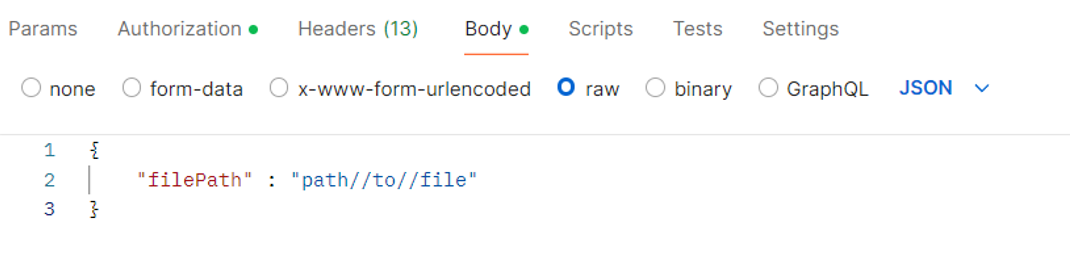
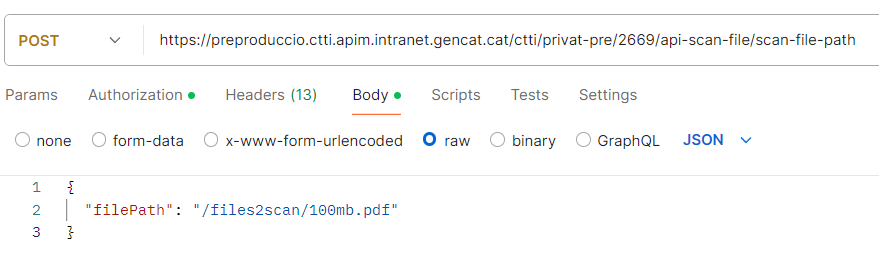
Actualización de la información de la operación scan-file-path

diff --git a/content/drafts/apiantivirus/antivirus.md b/content/drafts/apiantivirus/antivirus.md
@@ -27,13 +27,13 @@ Les aplicacions poden utilitzar un connector Canigo si ha estat desenvolupat sot
 
 ## Modes d'Integració
 
-Actualment existeixen dos modes d'integració, un a través del connector [Canigó](https://canigo.ctti.gencat.cat/plataformes/canigo/documentacio-per-versions/3.8LTS/3.8.0/moduls/moduls-integracio/modul-antivirus/), el qual tendirà a desaparèixer, i un altre mode via API **[API](/drafts/apiantivirus/intro_CAT/)**. Es recomana encaridament l'ús del mode d'integració del API a causa de la seva versatilitat, facilitat d'ús i integració, i fiabilitat..
+Actualment existeixen dos modes d'integració, un a través del connector [Canigó](https://canigo.ctti.gencat.cat/plataformes/canigo/documentacio-per-versions/3.8LTS/3.8.0/moduls/moduls-integracio/modul-antivirus/), el qual tendirà a desaparèixer, i un altre mode via API **[API](/apiantivirus/intro_CAT/)**. Es recomana encaridament l'ús del mode d'integració del API a causa de la seva versatilitat, facilitat d'ús i integració, i fiabilitat..
 
 A continuació, s'indiquen una sèrie d'exemples d'ús i el model d'integració recomanat:
 ## 
 
 | Cas d'ús | Mode d'integració recomanat |  
 |------|-------|
-| Sol·licitud d'escaneig de fitxers amb una grandària inferior a 15MB | **[API](/drafts/apiantivirus/intro_CAT/)** (Escaneig per fitxer adjunt)
-| Sol·licitud d'escaneig de fitxers amb una grandària superior a 15MB | **[API](/drafts/apiantivirus/intro_CAT/)** (Escaneig per URL)
+| Sol·licitud d'escaneig de fitxers amb una grandària inferior a 15MB | **[API](/apiantivirus/intro_CAT/)** (Escaneig per fitxer adjunt)
+| Sol·licitud d'escaneig de fitxers amb una grandària superior a 15MB | **[API](/apiantivirus/intro_CAT/)** (Escaneig per URL)
 | Desenvolupaments que no poden integrar-se via API | **[SDK](https://canigo.ctti.gencat.cat/plataformes/canigo/documentacio-per-versions/3.8LTS/3.8.0/moduls/moduls-integracio/modul-antivirus/)**

diff --git a/content/drafts/apiantivirus/intro_CAT.md b/content/drafts/apiantivirus/intro_CAT.md
@@ -19,7 +19,7 @@ Amb aquest canvi s'ha aconseguit el següent:
 
 ## Descripció
 
-A continuació, es llisten les diferents funcionals que ofereix el API Antivirus, les quals es detallessin més en profunditat en la secció de **[disseny tècnic del API](/drafts/apiantivirus/disenotecnico_CAT/)**.
+A continuació, es llisten les diferents funcionals que ofereix el API Antivirus, les quals es detallessin més en profunditat en la secció de **[disseny tècnic del API](/apiantivirus/disenotecnico_CAT/)**.
 ## 
 - **Obtenir token d'autenticació**: Operació per a sol·licitar un token d'autenticació i de refresh, requerits per a poder fer ús de la funcionalitat d'escaneig del API Antivirus.
 - **Refrescar Token**: Operació que s'usa per a refrescar el període de caducitat del token proporcionant un nou token d'accés, facilitant per a això el token de refresh.
@@ -29,12 +29,12 @@ A continuació, es llisten les diferents funcionals que ofereix el API Antivirus
 ## Documentació
 
 A través del següent enllaç es pot anar a la secció de canigo relacionada amb el disseny tècnic del API Antivirus.
-- **[disseny tècnic del API Antivirus](/drafts/apiantivirus/disenotecnico_CAT/)**.
+- **[disseny tècnic del API Antivirus](/apiantivirus/disenotecnico_CAT/)**.
 
 A través del següent enllaç es pot anar a la secció de canigo relacionada amb els requisits necessaris per a fer ús del API Antivirus.
-- **[Requisits per a fer ús del API Antivirus](/drafts/apiantivirus/requisitosdeuso_CAT/)**.
+- **[Requisits per a fer ús del API Antivirus](/apiantivirus/requisitosdeuso_CAT/)**.
 
 A través del següent enllaç es pot anar a la secció de canigo relacionada amb el manual d'ús del API Antivirus.
-- **[Manual d'ús del API Antivirus](/drafts/apiantivirus/manualdeuso_CAT/)**.
+- **[Manual d'ús del API Antivirus](/apiantivirus/manualdeuso_CAT/)**.
 
 

diff --git a/content/drafts/apiantivirus/disenotecnico_CAT.md b/content/drafts/apiantivirus/disenotecnico_CAT.md
@@ -158,6 +158,21 @@ A continuació, es detalla el disseny tècnic de les dues APIs encarregades de g
 + **Resposta Reeixida (200 OK):** El resultat de l'anàlisi, incloent així detalls com les amenaces trobades i els fitxers que s'han escanejat.
 	+ **Tipus:** application/json
 
+**_Nota:_** per a poder fer ús de l'operació de Scan-file-path(url), les aplicacions hauran d'enviar via SFTP el fitxer a escanejar a la següents ubicacions, depenent de l'entorn PREPRODUCCIÓ o PRODUCCIÓ:
+
+**_PREPRODUCCIÓ:_**
+- **Servidor:** preproduccio.cpd4.sftp.intranet.gencat.cat (10.53.4.16)
+- **User:** antivirus_pre
+- **Pass:** <La password d'accés al servidor i carpeta del sftp s'ha de sol·licitar a través d'un tiquet a [ACOAPIM](https://cstd-ctti.atlassian.net/jira/software/c/projects/ACOAPIM/issues)>
+- **Carpeta:** /files2scan
+ 
+**_PRODUCCIÓ:_**
+- **Servidor:** cpd4.sftp.intranet.gencat.cat (10.52.4.103)
+- **User:** antivirus_pro
+- **Pass:** <La password d'accés al servidor i carpeta del sftp s'ha de sol·licitar a través d'un tiquet a [ACOAPIM](https://cstd-ctti.atlassian.net/jira/software/c/projects/ACOAPIM/issues)>
+- **Carpeta:** /files2scan
+## 
+
 ###### **_Definició del API (yaml):_**
 - [Adjuntem el fitxer ymal del API Scan File (Swagger)](/related/apiantivirus/2669-api-scan-file_v1.0.0.yaml)
 ## 

diff --git a/content/drafts/apiantivirus/manualdeuso_CAT.md b/content/drafts/apiantivirus/manualdeuso_CAT.md
@@ -267,7 +267,7 @@ Per a escanejar fitxers facilitant la ruta per on es troba emmagatzemat els fitx
 - **filePath:** *_<La ruta del fitxer a analitzar, emmagatzemat en l'espai compartit>_*
 
 <p>
-  <img src="/related/apiantivirus/Postman18.png" width="900" height="250"/>
+  <img src="/related/apiantivirus/Postman18.png" width="1000" height="250"/>
 </p>
 
 ## 
